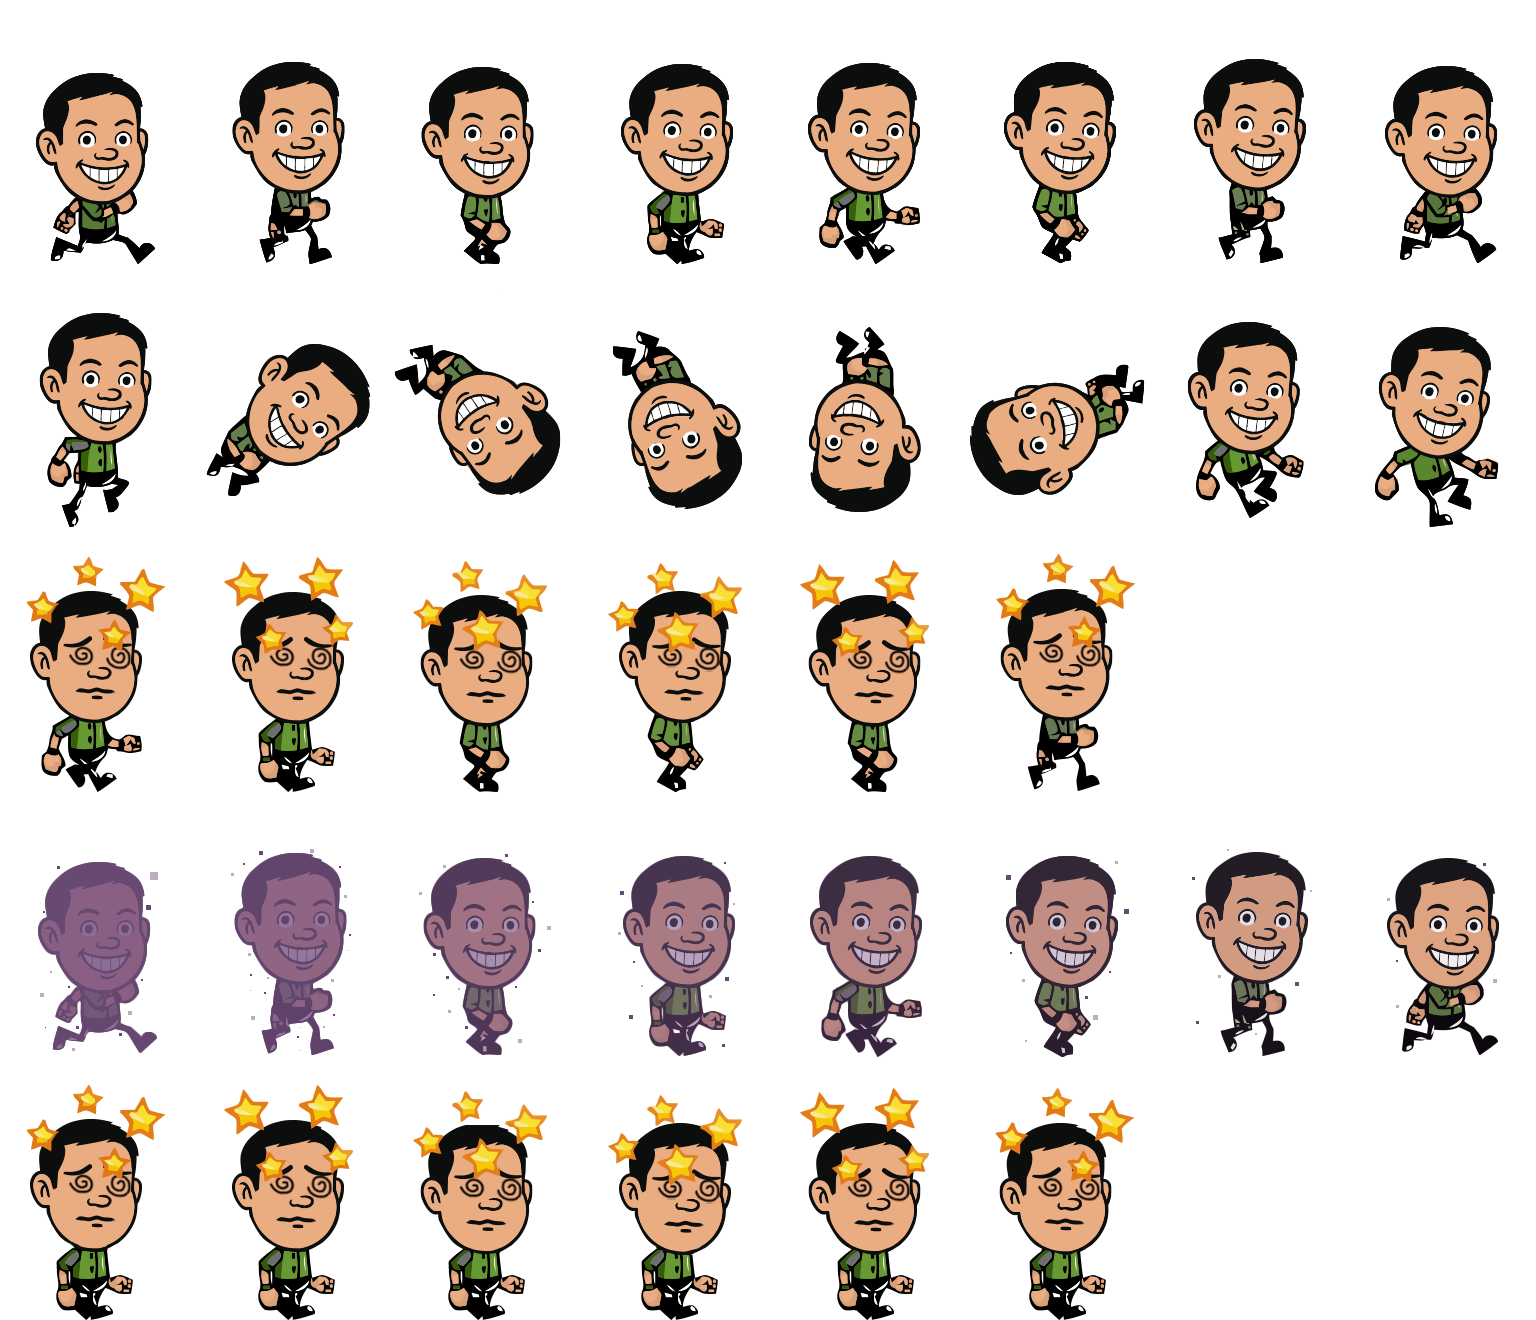
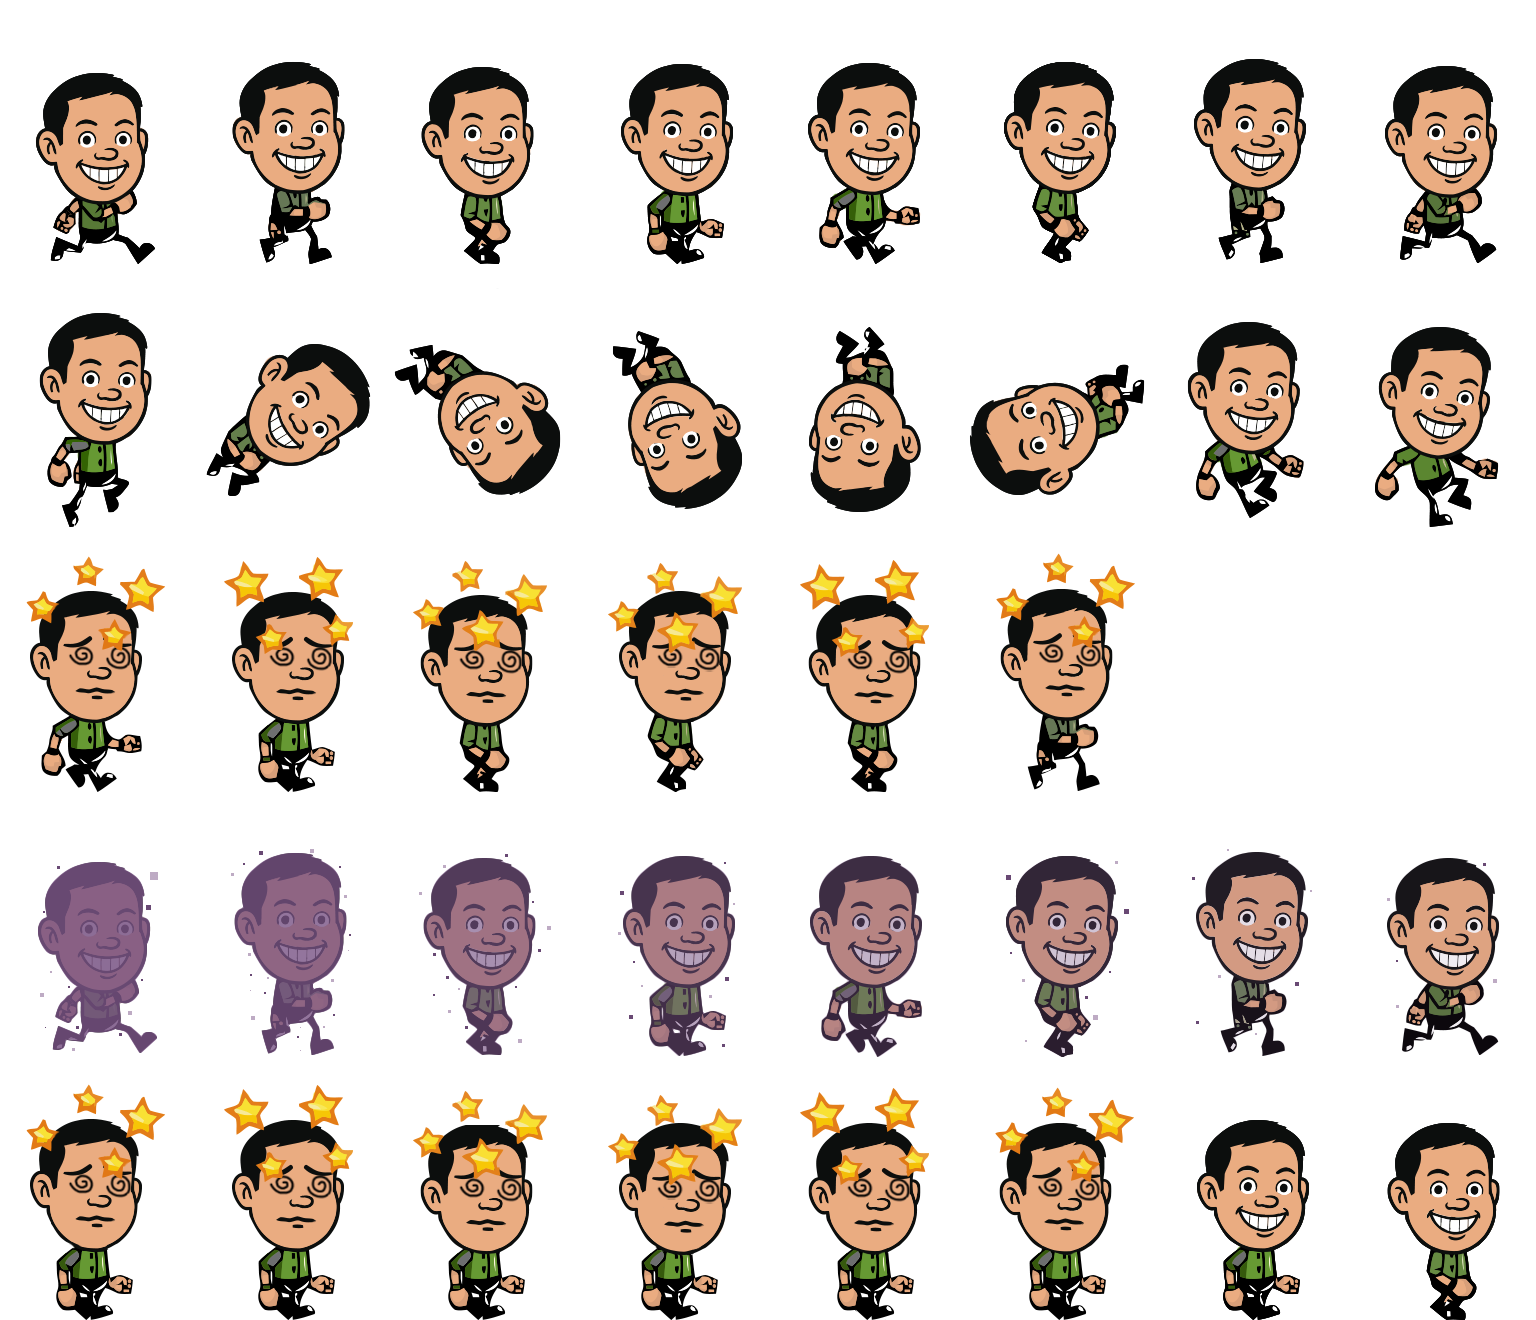
fixed level 0 bug and added idle animation

Changed region(s): [[0.9062, 0.8386, 1.0, 1.0], [0.7812, 0.8386, 0.875, 1.0]]

diff --git a/src/scenes/game.js b/src/scenes/game.js
@@ -8,19 +8,6 @@ k.loadSprite("pause-unclicked", "graphics/pause-unclicked.png");
 k.loadSprite("pause-clicked", "graphics/pause-clicked.png");
 
  gamePaused.set(false);
-function showTrafficLight(level) {
-  gamePaused.set(true);
-  k.wait(2, () => {
-    const center = k.vec2(k.width() / 2, (k.height() / 2) - 130);
-    const trafficLight = makeTrafficLight(center);
-
-    k.wait(5, () => {
-      gamePaused.set(false);
-      k.destroy(trafficLight);
-    });
-  });
-}
-
 function checkScore(score, level) {
   if (level === 1 && score > 47) return true;
   if (level === 2 && score > 94) return true;
@@ -52,6 +39,29 @@ export default function game() {
   sonic.setEvents();
 
   
+function showTrafficLight(level) {
+  gamePaused.set(true);
+  sonic.controlsEnabled = false; // Freeze Sonic's controls
+  sonic.play("stand");
+
+  k.wait(2, () => {
+    const center = k.vec2(k.width() / 2, (k.height() / 2) - 130);
+    const trafficLight = makeTrafficLight(center);
+
+    k.wait(5, () => {
+      k.destroy(trafficLight);
+      gamePaused.set(false);
+
+      // Resume Sonic
+      sonic.controlsEnabled = true;
+      if (!sonic.hidden && !teleporting) {
+        sonic.play("run");
+      }
+    });
+  });
+}
+
+  
   //health
   let frame = 0;
   let healthBar = k.add([
@@ -74,6 +84,8 @@ export default function game() {
   let pauseOverlay = null;
   let pauseText = null;
 
+
+  
   // Function to show pause menu
   function showPauseMenu() {
     // Create pause overlay
@@ -192,7 +204,7 @@ const levelText = k.add([
 
   // Game variables
   let gameSpeed = 500;
-  let level = 2;
+  let level = 1;
   let score = 0;
   let lives = 3;
   let teleporting = false;
@@ -316,11 +328,11 @@ const levelText = k.add([
 gamePaused.set(true);
 const message = k.add([
   k.text("You got hit! Recovering...", {
-    size: 36,
+    size: 64,
     font: "mania",
   }),
   k.anchor("center"),
-  k.pos(k.center()),
+  k.pos(k.center().x, k.center().y - 100),
   "resumePrompt"
 ]);
 
@@ -342,7 +354,7 @@ k.wait(1, () => {
 
 
     const warningText = k.add([
-      k.text(`Teleporting back to level ${level}`, {
+      k.text(`Teleporting Back to Level ${level}`, {
         font: "mania",
         size: 64,
       }),
@@ -376,7 +388,7 @@ k.wait(1, () => {
         sonic.play("run");
       });
       sonic.invincible = true; // re-enable invincible on re-show
-      k.wait(3, () => {
+      k.wait(2, () => {
         sonic.invincible = false;
       });
       k.wait(0.5, () => {

diff --git a/src/scenes/win.js b/src/scenes/win.js
@@ -1,0 +1,87 @@
+import k from "../kaplayCtx";
+import { makeSonic } from "../entities/sonic";
+
+export default function lose(citySfx) {
+  citySfx?.stop();
+
+  k.setGravity(0);
+  const bg = k.add([
+    k.sprite("up-close"),
+    k.pos(0, 0),
+    k.scale(1),
+    k.opacity(1),
+    k.fixed(),
+  ]);
+
+  const sonic = makeSonic(k.vec2(200, 680));
+  k.camScale(1.5);
+  sonic.play("run");
+
+  k.wait(0, () => {
+    if (sonic.body) sonic.body.useGravity = false;
+  });
+
+  const targetX = k.width() / 2;
+  const walkY = sonic.pos.y;
+
+  let movingOffscreen = false;
+  let fadingOut = false;
+
+  // Black overlay for fading out
+  const fadeOverlay = k.add([
+    k.rect(k.width(), k.height()),
+    k.color(0, 0, 0),
+    k.opacity(0),
+    k.fixed(),
+    "fade",
+  ]);
+
+  function startFadeOut() {
+    if (!fadingOut) {
+      fadingOut = true;
+      k.tween(
+        fadeOverlay.opacity,
+        1,
+        1, // duration of 1 second for fade out
+        (val) => {
+          fadeOverlay.opacity = val;
+        },
+        k.easings.easeInOutQuad
+      ).then(() => {
+        k.go("gameover");
+      });
+    }
+  }
+
+  k.onUpdate(() => {
+    if (!movingOffscreen) {
+      if (sonic.pos.x < targetX) {
+        sonic.move(60, 0);
+      } else {
+        movingOffscreen = true;
+      }
+      sonic.pos.y = walkY;
+    } else {
+      sonic.move(100, 0);
+      sonic.pos.y = walkY;
+
+      const sonicRightEdge = sonic.pos.x + sonic.width / 2;
+      if (sonic.pos.x > k.width() - 10 && !fadingOut) {
+        startFadeOut();
+      }
+    }
+  });
+
+  let canPressSpace = false;
+
+  // Delay before space bar can trigger fade
+  k.wait(1, () => {  // wait 1 second before enabling
+    canPressSpace = true;
+  });
+
+  k.onKeyPress("space", () => {
+    if (canPressSpace) {
+      startFadeOut();
+    }
+  });
+}

diff --git a/src/entities/sonic.js b/src/entities/sonic.js
@@ -8,10 +8,14 @@ export function makeSonic(pos) {
     k.anchor("center"),
     k.pos(pos),
     k.body({ jumpForce: 1200 }),
+    
     {
       ringCollectUI: null,
+      controlsEnabled: true, // ✅ flag goes here
+
       setControls() {
         k.onButtonPress("jump", () => {
+          if (!this.controlsEnabled) return; // ✅ check flag
           if (this.isGrounded()) {
             this.play("jump");
             this.jump();
@@ -19,14 +23,17 @@ export function makeSonic(pos) {
           }
         });
       },
+
       setEvents() {
         this.onGround(() => {
+          if (!this.controlsEnabled) return; // ✅ check flag
           this.play("run");
         });
       },
     },
   ]);
 
+  // Attach ring counter UI
   sonic.ringCollectUI = sonic.add([
     k.text("", { font: "mania", size: 45 }),
     k.color(255, 255, 0),

diff --git a/src/main.js b/src/main.js
@@ -18,7 +18,8 @@ k.loadSprite("sonic", "graphics/ryan.png", {
     jump: { from: 8, to: 15, loop: false, speed: 10 },
     dizzy: {from: 16, to: 21, loop: true, speed: 10},
     spawn: {from: 22, to: 29, loop: true, speed: 10},
-    idle: {from: 32, to: 36, loop: true, speed: 10},
+    idle: {from: 32, to: 37, loop: true, speed: 10},
+    stand: {from: 38, to: 39, loop: true, speed: 2},
   },
 });
 k.loadSprite("ring", "graphics/ring.png", {
@@ -33,7 +34,7 @@ k.loadSprite("motobug", "graphics/motobug.png", {
   sliceY: 2,
   anims: {
     run: { from: 0, to: 7, loop: true, speed: 8 },
-    crash: { from: 8, to: 15, loop: true, speed: 12 },
+    crash: { from: 8, to: 15, loop: true, speed: 15 },
   },
 });
 k.loadSprite('trafficLight', "graphics/trafficLight.png", {
